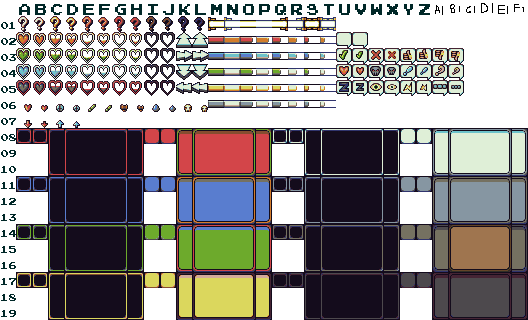
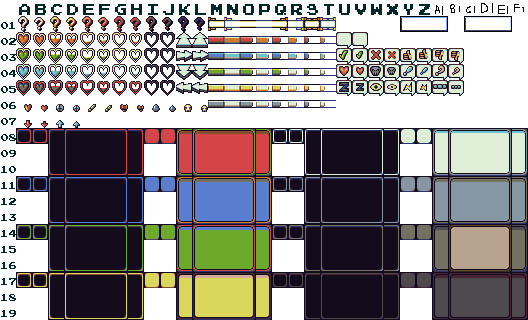
Update all button graphics (to 3D-like look)

Changed region(s): [[0.8485, 0.6875, 0.9697, 0.8438], [0.8788, 0.0312, 0.9697, 0.125], [0.7576, 0.0312, 0.8485, 0.125]]

diff --git a/source/menu/options.py b/source/menu/options.py
@@ -39,8 +39,10 @@ def menu_main_options(ingame_menu_options=False):
     sfx_slider_y = music_slider_y + 45
 
     # buttons
-    button_width = 50
-    button_height = 25
+    button_width = 64
+    button_height = 32
+    back_button_width = 64
+    button_offset = int(button_height/2)
 
     save_button_x = center_x - button_width
     save_button_y = menu_rect.bottom - 30
@@ -64,40 +66,30 @@ def menu_main_options(ingame_menu_options=False):
 
     # ================== Options menu is in-game =================== #
     if ingame_menu_options:
-        button_width = 80
-        button_height = 25
+        button_width = 96
+        back_button_width = 64
 
-        save_button_x = center_x - button_width
         save_button_text = "Save game"
 
-        mm_button_x = center_x + button_width
+        back_button_x = center_x
+        save_button_x = back_button_x - (button_width + button_offset)
+
+        mm_button_x = back_button_x + (button_width + button_offset)
         mm_button_y = menu_rect.bottom - 30
 
         main_menu_button = gui.GuiButton(surface_option_menu, "Main Menu",
                                          (mm_button_x, mm_button_y),
-                                         (button_width, button_height),
-                                         color_button_hovered=constants.COLOR_BLACK,
-                                         color_button_default=constants.COLOR_GREY,
-                                         color_text_hovered=constants.COLOR_WHITE,
-                                         color_text_default=constants.COLOR_WHITE)
+                                         (button_width, button_height))
 
     # ====================== button section ===================== #
 
     save_button = gui.GuiButton(surface_option_menu, save_button_text,
                                 (save_button_x, save_button_y),
-                                (button_width, button_height),
-                                color_button_hovered=constants.COLOR_BLACK,
-                                color_button_default=constants.COLOR_GREY,
-                                color_text_hovered=constants.COLOR_WHITE,
-                                color_text_default=constants.COLOR_WHITE)
+                                (button_width, button_height))
 
     back_button = gui.GuiButton(surface_option_menu, back_button_text,
                                 (back_button_x, back_button_y),
-                                (button_width, button_height),
-                                color_button_hovered=constants.COLOR_BLACK,
-                                color_button_default=constants.COLOR_GREY,
-                                color_text_hovered=constants.COLOR_WHITE,
-                                color_text_default=constants.COLOR_WHITE)
+                                (back_button_width, button_height))
 
     # menu loop
     menu_close = False

diff --git a/source/gui.py b/source/gui.py
@@ -1,3 +1,4 @@
+import numpy
 
 # Third party imports
 import pygame
@@ -34,6 +35,7 @@ class GuiButton:
 
         self.button_rect = pygame.Rect((0, 0), self.size)
         self.button_rect.center = self.coords_center
+        self.mouse_hover = False
 
     def update(self, player_input):
 
@@ -54,10 +56,12 @@ class GuiButton:
         if mouse_hovered:
             self.color_button_current = self.color_button_hovered
             self.color_text_current = self.color_text_hovered
+            self.mouse_hover = True
 
         else:
             self.color_button_current = self.color_button_default
             self.color_text_current = self.color_text_default
+            self.mouse_hover = False
 
         if mouse_hovered and mouse_clicked:
             button_clicked = True
@@ -65,10 +69,37 @@ class GuiButton:
         return button_clicked
 
     def draw(self):
-        pygame.draw.rect(self.surface, self.color_button_current, self.button_rect)
+        surface_button = pygame.Surface(self.size)
+        surface_button.fill(self.color_button_current)
+
+        topL = (0, 0)
+        topR = numpy.subtract(self.size, (32, self.size[1]))
+        num_tiles_width = int(self.size[0] / 32) - 2
+
+        if not self.mouse_hover:
+            surface_button.blit(globalvars.ASSETS.S_SIDE_L_BUTTON_BLUE, topL)
+            surface_button.blit(globalvars.ASSETS.S_SIDE_R_BUTTON_BLUE, topR)
+            for w in range(1, num_tiles_width + 1):
+                surface_button.blit(globalvars.ASSETS.S_MID_BUTTON_BLUE, tuple(numpy.add(topL, (32*w, 0))))
+
+        elif self.mouse_hover:
+            surface_button.blit(globalvars.ASSETS.S_SIDE_L_BUTTON_BLUE_HOVER, topL)
+            surface_button.blit(globalvars.ASSETS.S_SIDE_R_BUTTON_BLUE_HOVER, topR)
+            for w in range(1, num_tiles_width + 1):
+                surface_button.blit(globalvars.ASSETS.S_MID_BUTTON_BLUE_HOVER, tuple(numpy.add(topL, (32 * w, 0))))
+
+        self.surface.blit(surface_button, self.button_rect.topleft)
+
+
+
+        # pygame.draw.rect(self.surface, self.color_button_current, self.button_rect)
 
         text.draw_text(self.surface, self.text, constants.FONT_BEST, self.coords_center,
                        self.color_text_current, self.color_button_current, center=True)
+
+
+
+
 
 
 class GuiSlider:

diff --git a/source/assets.py b/source/assets.py
@@ -251,6 +251,14 @@ class ObjAssets:
         self.S_SIDE_R_MENU_BROWN = self.menugui.get_image('e1', 15, 16, 16, (32, 32))[0]
         self.S_MID_MENU_BROWN = self.menugui.get_image('c1', 15, 16, 16, (32, 32))[0]
 
+        self.S_SIDE_L_BUTTON_BLUE = self.menugui.get_image('c1', 1, 16, 16, (32, 32))[0]
+        self.S_SIDE_R_BUTTON_BLUE = self.menugui.get_image('e1', 1, 16, 16, (32, 32))[0]
+        self.S_MID_BUTTON_BLUE = self.menugui.get_image('d1', 1, 16, 16, (32, 32))[0]
+
+        self.S_SIDE_L_BUTTON_BLUE_HOVER = self.menugui.get_image('y', 1, 16, 16, (32, 32))[0]
+        self.S_SIDE_R_BUTTON_BLUE_HOVER = self.menugui.get_image('a1', 1, 16, 16, (32, 32))[0]
+        self.S_MID_BUTTON_BLUE_HOVER = self.menugui.get_image('z', 1, 16, 16, (32, 32))[0]
+
         self.S_MAGIC_ROCK = self.rock.get_image('b', 1, 16, 16, (32, 32))
         self.A_PORTAL_OPEN = self.door.get_animation('c', 6, 2, 16, 16, (32, 32))
         self.S_PORTAL_CLOSED = self.door.get_image('b', 6, 16, 16, (32, 32))

diff --git a/source/menu/mainmenu.py b/source/menu/mainmenu.py
@@ -145,7 +145,7 @@ def menu_credits():
 
     # ================= slider/button variables ================ #
     # buttons
-    button_width = 80
+    button_width = 96
     button_height = 32
 
     menu_button_x = center_x
@@ -156,11 +156,7 @@ def menu_credits():
 
     menu_button = gui.GuiButton(surface_credits_menu, menu_button_text,
                                 (menu_button_x, menu_button_y),
-                                (button_width, button_height),
-                                color_button_hovered=constants.COLOR_BLACK,
-                                color_button_default=constants.COLOR_GREY,
-                                color_text_hovered=constants.COLOR_WHITE,
-                                color_text_default=constants.COLOR_WHITE)
+                                (button_width, button_height))
 
     # ====================== MENU LOOP ===================== #
     menu_close = False

diff --git a/source/constants.py b/source/constants.py
@@ -44,6 +44,11 @@ COLOR_BLUE = (66, 167, 244)
 COLOR_BLUE1 = (114, 156, 224)
 COLOR_BLUE2 = (45, 95, 175)
 COLOR_BLUE3 = (33, 70, 130)
+COLOR_GREYBLUE1 = (59, 83, 122)
+COLOR_GREYBLUE2 = (34, 51, 77)
+
+COLOR_FORREST_GREEN1 = (58, 94, 63)
+COLOR_FORREST_GREEN2 = (36, 59, 39)
 
 COLOR_YELLOW = (255, 233, 147)
 COLOR_ORANGE = (255, 155, 84)
